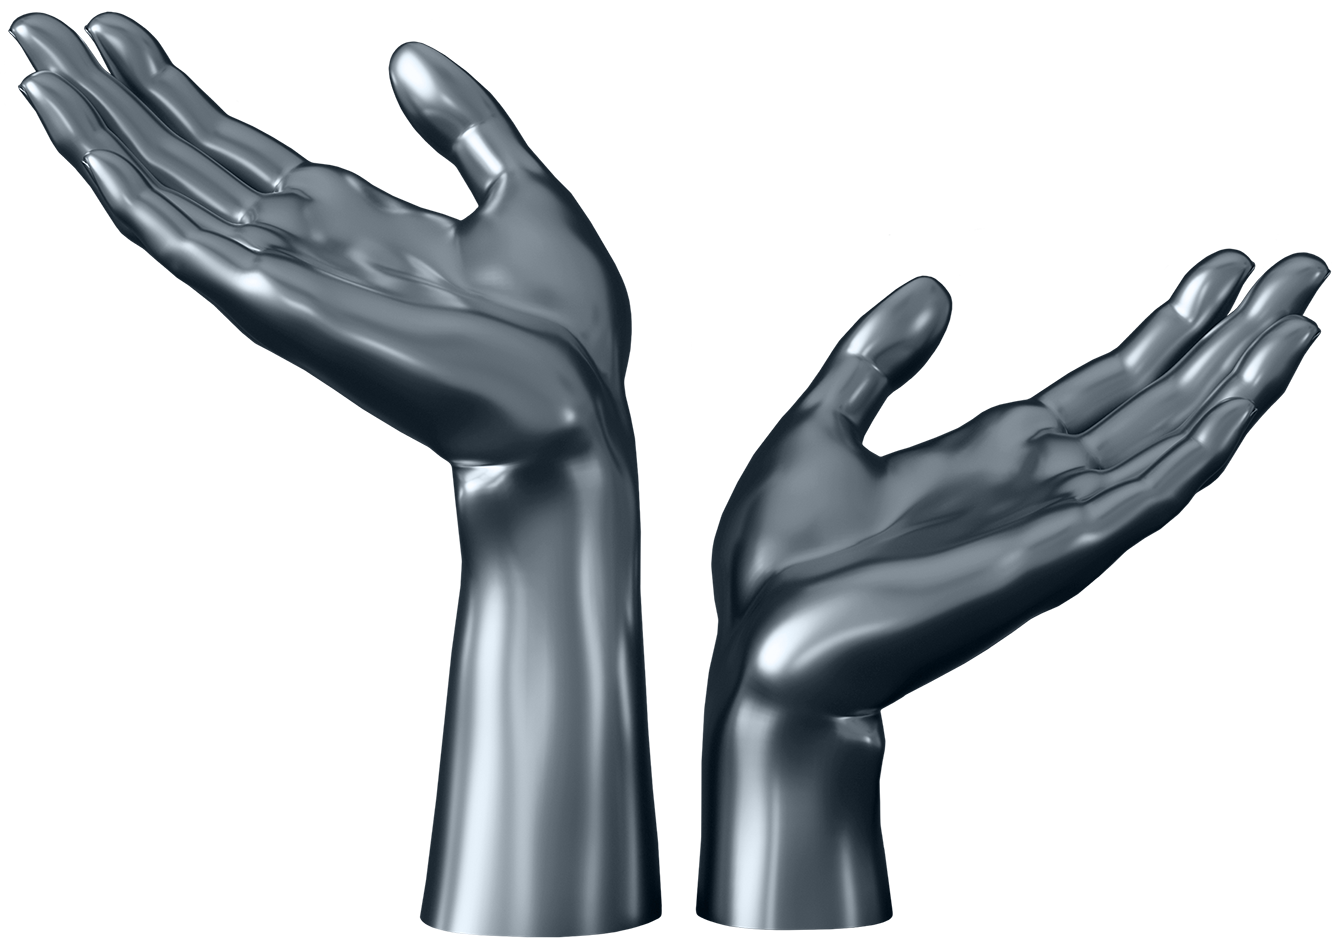
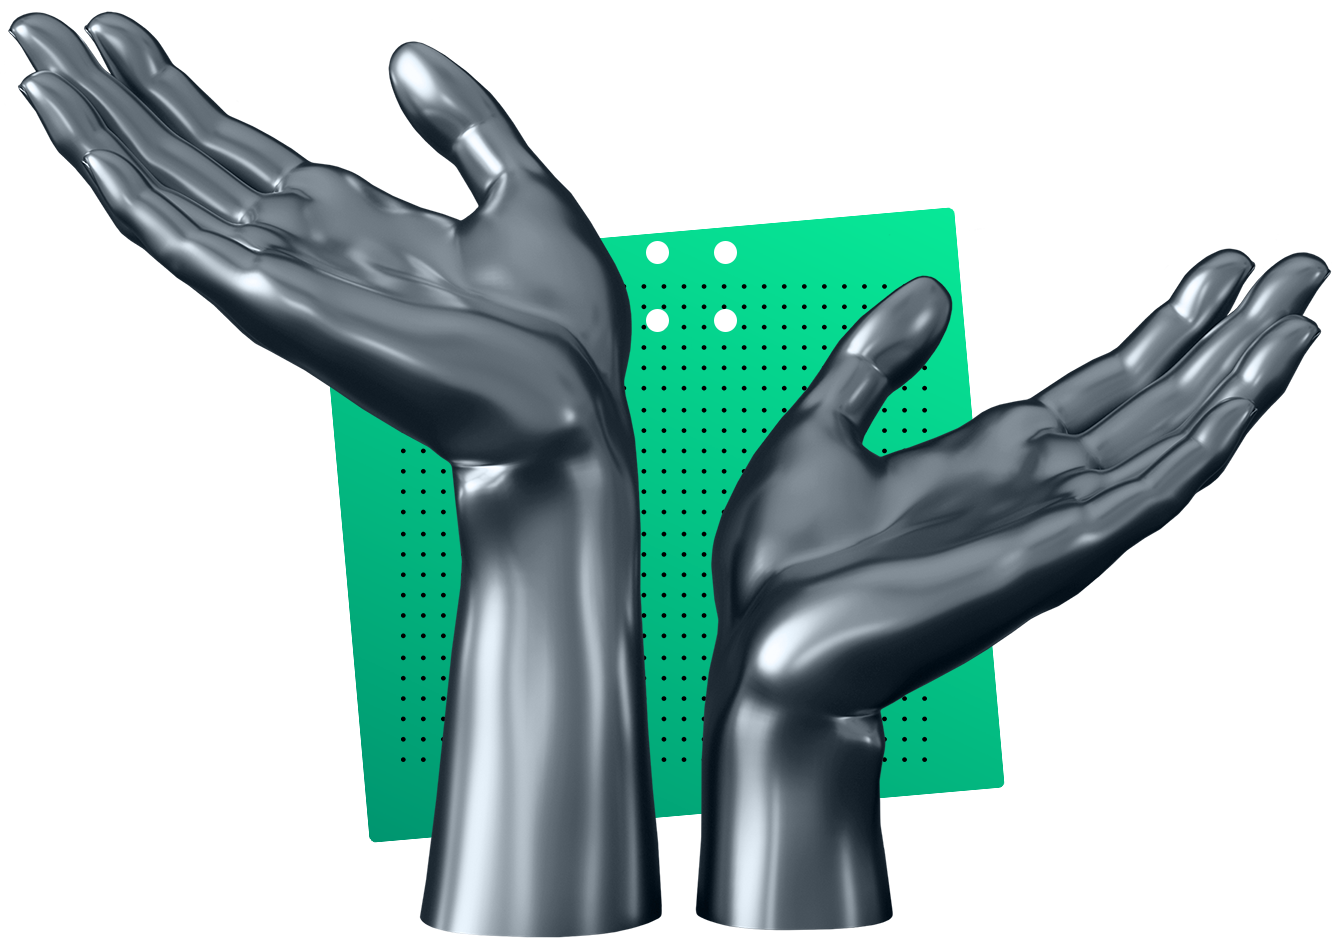
fix positioning, fix visual, add meta, fix h1-h2

Changed region(s): [[0.4309, 0.2164, 0.7387, 0.8966], [0.2462, 0.4019, 0.3694, 0.8966], [0.6464, 0.6802, 0.7695, 0.8657]]

diff --git a/blocks/nominations/nominations.scss b/blocks/nominations/nominations.scss
@@ -155,7 +155,7 @@
 .other__el {
     display: flex;
     justify-content: flex-start;
-    align-items: flex-end;
+    align-items: center;
 }
 .other__text {
     font-size: 2.5rem;
@@ -166,6 +166,7 @@
     color: white;
 }
 .other__img {
+    margin-left: 1rem;
     width: 4.625rem;
     height: 1.0rem;
 }
@@ -264,12 +265,45 @@
     }
 }
 
+@media screen and (min-width: 1300px) and (max-width: 1920px) {
+    .image-wrapper__hands {
+        right: calc((100vw - 1300px)/(1920 - 1300) * (365 - 137) + 137px);
+    }
+}
+@media screen and (max-width: 1763px) {
+    .track__summ {
+        font-size: 6.5rem;
+    }
+}
+
+@media screen and (min-width: 1450px) and (max-width: 1763px) {
+    .image-wrapper__hands {
+        right: 29.25rem;
+    }
+}
+
+@media screen and (min-width: 1300px) and (max-width: 1449px) {
+    .image-wrapper__hands {
+        right: 14%;
+    }
+}
+
+@media screen and (max-width: 1299px) {
+    .image-wrapper__hands {
+        right: 20rem;
+    }
+}
+
+@media screen and (min-width: 975px) and (max-width: 1650px) {
+    .rows__heading {
+        padding: 9rem 0 49.75rem 6.25rem;
+    }
+}
+
 @media screen and (max-width: 975px) {
-    .image-wrapper {
-        position: absolute;
-        width: 100%;
-        top: 23px;
-        left: 279px;
+    .image-wrapper__hands {
+        top: 20.25rem;
+        right: calc((100vw - 761px)/(975 - 761) * (44 + 18) - 18px);
     }
     .tablet {
         right: -0.625rem;
@@ -311,11 +345,9 @@
 }
 
 @media screen and (min-width: 599px) and (max-width: 760px) {
-    .image-wrapper {
-        position: absolute;
-        width: 100%;
-        top: 23px;
-        left: 331px;
+    .image-wrapper__hands {
+        top: 20.25rem;
+        right: calc((100vw - 600px)/(760 - 600) * (96 - 50) - 96px);
     }
     .track__summ {
         margin: 0;

diff --git a/blocks/faq/faq.scss b/blocks/faq/faq.scss
@@ -18,6 +18,7 @@
 .faq__info {
 }
 .faq__text {
+    display: flex;
     margin-bottom: 2.5rem;
 }
 .faq__description{
@@ -28,6 +29,7 @@
     color: white;
 }
 .faq__img {
+    margin-left: 2rem;
     cursor: pointer;
     width: 3.125rem;
     height: 3.125rem;
@@ -37,7 +39,6 @@
     top: 15.625rem;
     right: 51.25rem;
     width: 40.0rem;
-    transform: rotate(90deg);
 }
 
 .faq-triangle{
@@ -61,7 +62,6 @@
         top: 15.625rem;
         right: 5.25rem;
         width: 40rem;
-        transform: rotate(90deg);
     }
     .faq__description {
         font-size: 3.5rem;
@@ -73,7 +73,6 @@
         top: 31.625rem;
         right: 5.25rem;
         width: 24rem;
-        transform: rotate(90deg);
     }
 }
 @media screen and (max-width: 720px) {
@@ -113,7 +112,6 @@
         top: 67.75rem;
         right:  -13.125rem;
         width: 40.0rem;
-        transform: rotate(90deg);
     }
     .faq-triangle{
         position: absolute;

diff --git a/blocks/footer/footer.scss b/blocks/footer/footer.scss
@@ -12,13 +12,21 @@
 }
 .footer__social {
     display: flex;
+    align-items: center;
 }
 .footer__social-img {
     margin-right: 1.25rem;
-    height: 2.5rem;
+    height: 3rem;
 }
+#fbImg,
+#tgImg {
+    height: 4rem;
+}
+
+
 .footer__links {
-    
+    display: flex;
+    align-items: center;
 }
 .footer__links-el {
     font-size: 2.25rem;

diff --git a/blocks/programm/programm.scss b/blocks/programm/programm.scss
@@ -115,6 +115,18 @@
     color: rgba(255, 255, 255, 0.2);
 }
 
+@media screen and (max-width: 1980px) {
+    .ball-programm{
+        left: 22%;
+    }
+}
+
+@media screen and (max-width: 1625px) {
+    .ball-programm{
+        left: 20.5%;
+    }
+}
+
 @media screen and (max-width: 975px) {
     .programm__heading {
         font-size: 6rem;

diff --git a/blocks/participation/participation.scss b/blocks/participation/participation.scss
@@ -60,6 +60,7 @@
     color: rgba(255, 255, 255, 1);
 }
 .participation-logo {
+    font-family: custom_32105;
     padding-top: 2.5rem;
     width: 70%;
     display: flex;
@@ -67,6 +68,7 @@
     margin: 0 auto;
 }
 .participation-logo__logo {
+    font-family: custom_32105;
     margin: 0;
     font-size: 12.5rem;
     font-weight: 700;

diff --git a/blocks/short-about/short-about.scss b/blocks/short-about/short-about.scss
@@ -78,7 +78,6 @@
     position: absolute;
     bottom: 3.75rem;
     right: 51.75rem;
-    transform: rotate(45deg);
     width: 37.5rem;
 }
 
@@ -110,7 +109,6 @@
         position: absolute;
         bottom: -62.25rem;
         right: 51.75rem;
-        transform: rotate(45deg);
         width: 37.5rem;
     }
 }

diff --git a/blocks/style.scss b/blocks/style.scss
@@ -56,6 +56,7 @@ html {
         line-height: 23px;
         padding: 16px;
         font-size: 15px;
+        font-family: custom_32105;
     }
 }
 
